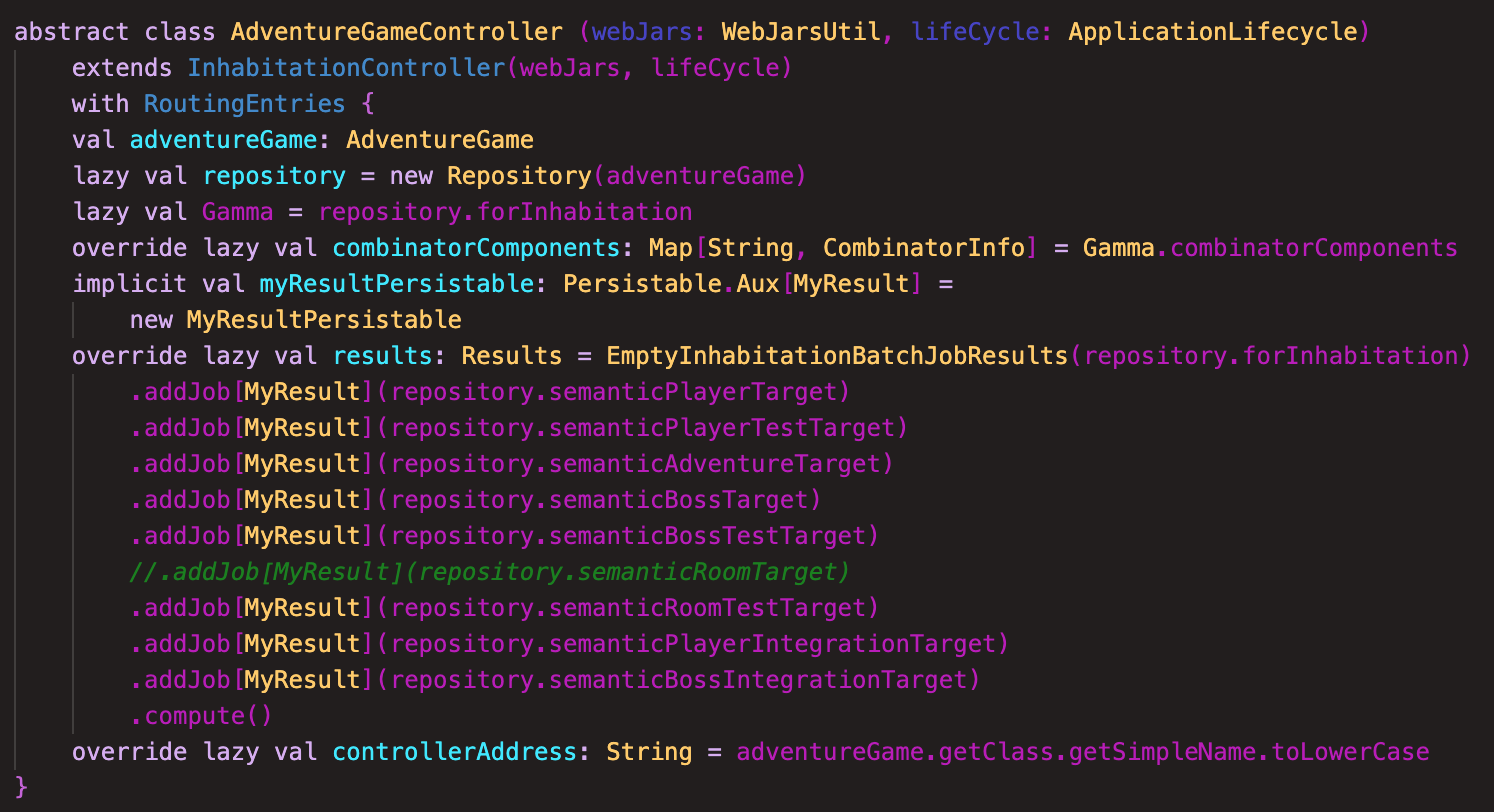
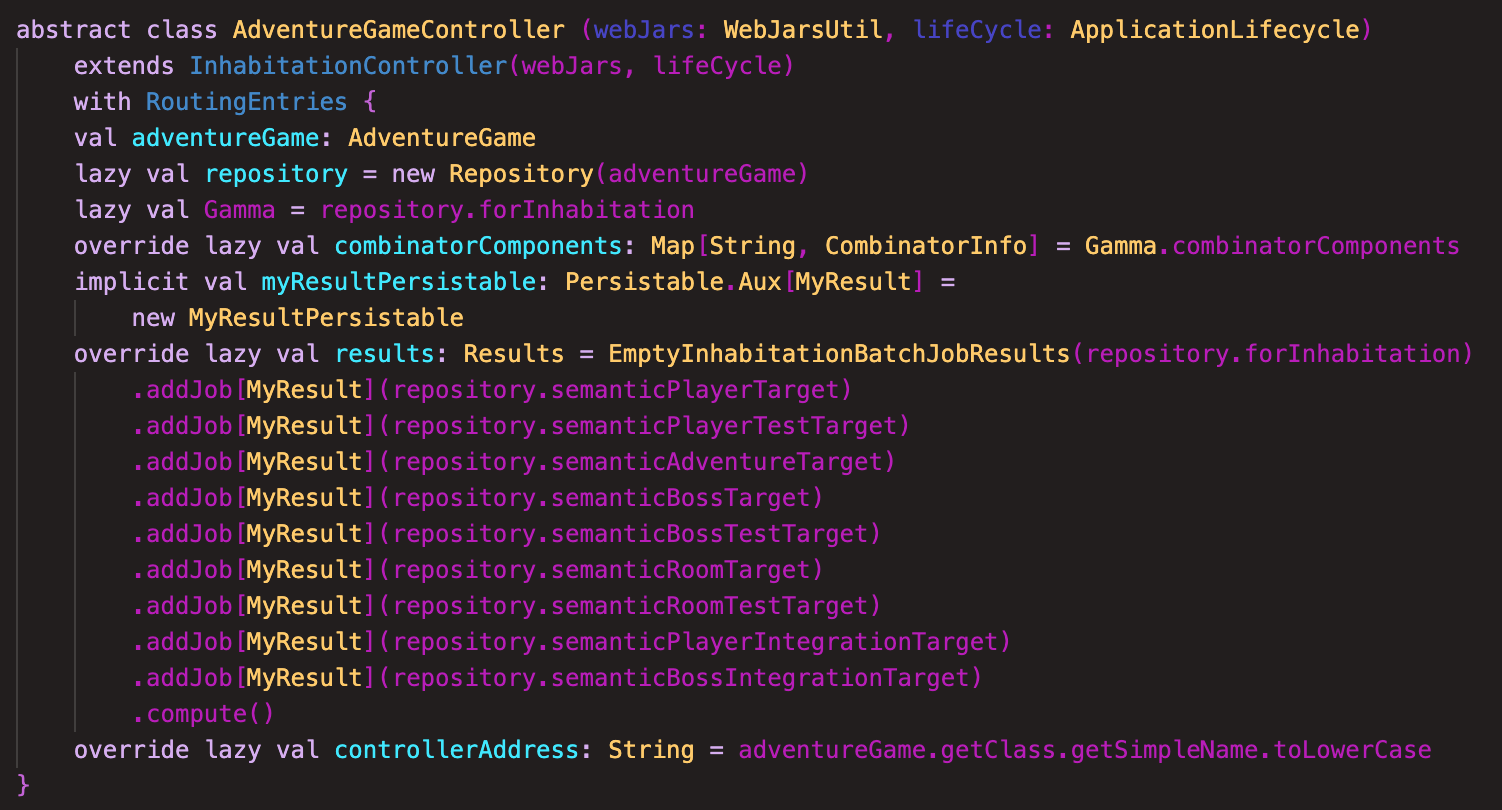
All conforms to room working

diff --git a/Sections/Results/Results.tex b/Sections/Results/Results.tex
@@ -1,5 +1,5 @@
 \section{Results}
-We can not look into the results of our work and show how we can create our different variations of the game. As we have already discussed, we can give the player three different abilities and likewise we can give the boss two different abilities, but we can also choose not to have a boss. We have succeeded in being able to create these variations, unfortunately as discussed in the '\nameref{Room}' subsection we have been unable to create variations with weather effects. We can thus create \textbf{nine} different variations.
+We can now look into the results of our work and show how we can create our different variations of the game. As we have already discussed, we can give the player three different abilities and likewise we can give the boss two different abilities, but we can also choose not to have a boss. The room can take a combination of four weathers, and based on those, we can meet different weather effects in the game variations. We can thus create \textbf{36} different variations.
 
 \begin{figure}[H]
 	\centering
@@ -7,15 +7,51 @@ We can not look into the results of our work and show how we can create our diff
 	\caption{In the \textit{AdventureGameController} we can see what jobs we are scheduling and thus what we want synthesized.}
 	\label{Controller}
 \end{figure}
-In \autoref{Controller} we see \textit{AdventureGameController} in which we add the jobs we want done. Each job correspond to a synthesis we want done, and so if we are only interested in creating a player we could remove the other jobs. As seen we have removed \textit{semanticRoomTarget} as it will not finish.\\
-To alter the variation we synthesize we need to look at a concrete class which extends our \textit{AdventureGame} class. We can here look at \textit{AdventureGameVersion1} which is seen in \autoref{version1}. We here see the player having the fireball ability, the boss having the damage reduction ability, and the possible weather effects being blizzard.\\
+In \autoref{Controller} we see \textit{AdventureGameController} in which we add the jobs we want done. Each job correspond to a synthesis we want done, and so if we are only interested in creating a player we could remove the other jobs.
 
-\begin{figure}
+\begin{figure}[H]
 	\centering
 	\includegraphics[width=\linewidth]{Materials/Results/AdventureVariation}
 	\caption{By setting the \textit{AdventureGame} fields we can create different variation of our game. Here is shown a variation where the player has the fireball, the boss has the damage reduction ability and the possible weather effects would be blizzard.}
 	\label{version1}
 \end{figure}
-As the room can not be synthesized we can unfortunately not showcase a variation with a boss. This is because the room has a combinator adding three methods if we are synthesizing a variation with a boss which the boss rely on. Instead we can check the files which is being synthesized and that way verify the boss is being synthesized correctly. \\
-In the following we will showcase that the initial application can be synthesized and played. This however, is because we do not need any changes to the room in the initial application and thus we can use the template file in the project for the room. One could say we have not succeeded in synthesizing the initial application, as the intention was to synthesize the room and we have not.\\
-As we start the game we see that we can not hit other players in the room with us. This is because we need the knife to attack with, as we do not have the fireball in the initial application. With the knife we can now begin stabbing both other players, but also the evil customer monster. The concept for hitting the 'Wicked Witch' is the same, but here we need the water. As this is all there is to the game in the initial application our showcase is done.
+
+To alter the variation we synthesize we need to look at a concrete class which extends our \textit{AdventureGame} class. We can here look at \textit{AdventureGameVersion1} which is seen in \autoref{version1}. We here see the player having the fireball ability, the boss having the damage reduction ability, and the possible weather effects being blizzard.
+
+\begin{wrapfigure}{R}{0.6\linewidth}
+	\centering
+	\includegraphics[width=\linewidth]{Materials/Results/AttackingCustomer}
+	\caption{We see that the player with the knife can attack the Angry Customer.}
+	\label{sc1}
+\end{wrapfigure}
+In the following we will showcase that the initial application can be synthesized and played. Here we are focusing on \autoref{sc1}, \autoref{sc2} and \autoref{sc3}. As we start the game we see that we can not hit other players in the room with us. This is because we need the knife to attack with, as we do not have the fireball in the initial application. With the knife we can now begin stabbing both other players, but also the evil customer monster. The concept for hitting the 'Wicked Witch' is the same, but here we need the water. As this is all there is to the game in the initial application, our showcase of the initial application is done.
+
+\begin{figure}[H]
+	\centering
+	\includegraphics[width=0.9\linewidth]{Materials/Results/PlayersEntering}
+	\caption{We see that we cannot attack other players without having the knife.}
+	\label{sc2}
+\end{figure}
+
+\begin{figure}[H]
+	\centering
+	\includegraphics[width=0.8\linewidth]{Materials/Results/AttackingPlayer}
+	\caption{We see that the player with the knife can attack other players.}
+	\label{sc3}
+\end{figure}
+
+But to show off the weather effects and the boss, we have provided to more showcasing images for these variations, namely \autoref{sc4} and \autoref{sc5}.
+
+\begin{figure}[H]
+	\centering
+	\includegraphics[width=0.6\linewidth]{example-image-a}
+	\caption{We see that we cannot attack other players without having the knife.}
+	\label{sc4}
+\end{figure}
+
+\begin{figure}[H]
+	\centering
+	\includegraphics[width=0.6\linewidth]{example-image-a}
+	\caption{We see that the player with the knife can attack other players.}
+	\label{sc5}
+\end{figure}

diff --git a/Sections/Decomposition/Room.tex b/Sections/Decomposition/Room.tex
@@ -18,5 +18,5 @@ In \autoref{WeatherEffects} we see the combinator for creating weather effects. 
 \end{figure}
 Unfortunately we see that when we create a variation with no weather effects we will get two variations. This is because both combinators accepts four \textit{'weather} types intersected by \textit{'none}. We could avoid this issue by intersecting \textit{'room} further. For instance adding a kinding \textit{'weatherPresent'} which can take the values \textit{'weatherIsPresent} and \textit{'weatherIsNotPresent}. We could then add a combinator which provides the first few lines which \textit{WeatherTypes} and \textit{WeatherTypesNone} (seen in \autoref{NoneWeather}) has in common and has the semantic type \textit{weatherEffect(weatherPresent)}. \textit{WeatherTypes} would then require \textit{weatherEffect(weatherIsPresent)} and \textit{WeatherTypesNone} would require \textit{weatherEffect(weatherIsNotPresent)}. Then the \textit{weatherPresent} kinding would be set in the \textit{SemanticRoomTarget} method depending on whether all weather kindings are \textit{'none} or not. This is however, a lot of additional complexity and begs the question, is creating a combinator for the first few common lines of code meaningful? The consequence of not doing this, is the developer needs to choose the correct variation of the room, which we do not see as a huge issue. And we thus value the simpler solution more, as we see the added complexity to do more harm than having to choose between two variations do. However, this is a small project, and in a bigger setting it might be better to choose the alternative solution as it is more scalable.\\
 
-Although we were very confident we could combinate these weather effects, we have unfortunately not been able to do so. We are unsure what exactly the problem is, but when attempting to create a variation based on \textit{SemanticRoomTarget} the CLS will run for one to three hours before throwing an 'out of memory' error. This indicates there is a loop in the code somewhere, but despite our best efforts to debug the code, we cannot find the error. As so, we conclude that we have not achieved our goal of being able to synthesize code where a list of parameters defined in our meta language has an effect on the variation we are creating.
+As we now can synthesize code based on defined parameters in the metalanguage, we conclude we have successfully synthesized the room, and we have met all of the goals we formulated as our driving forces.
 
